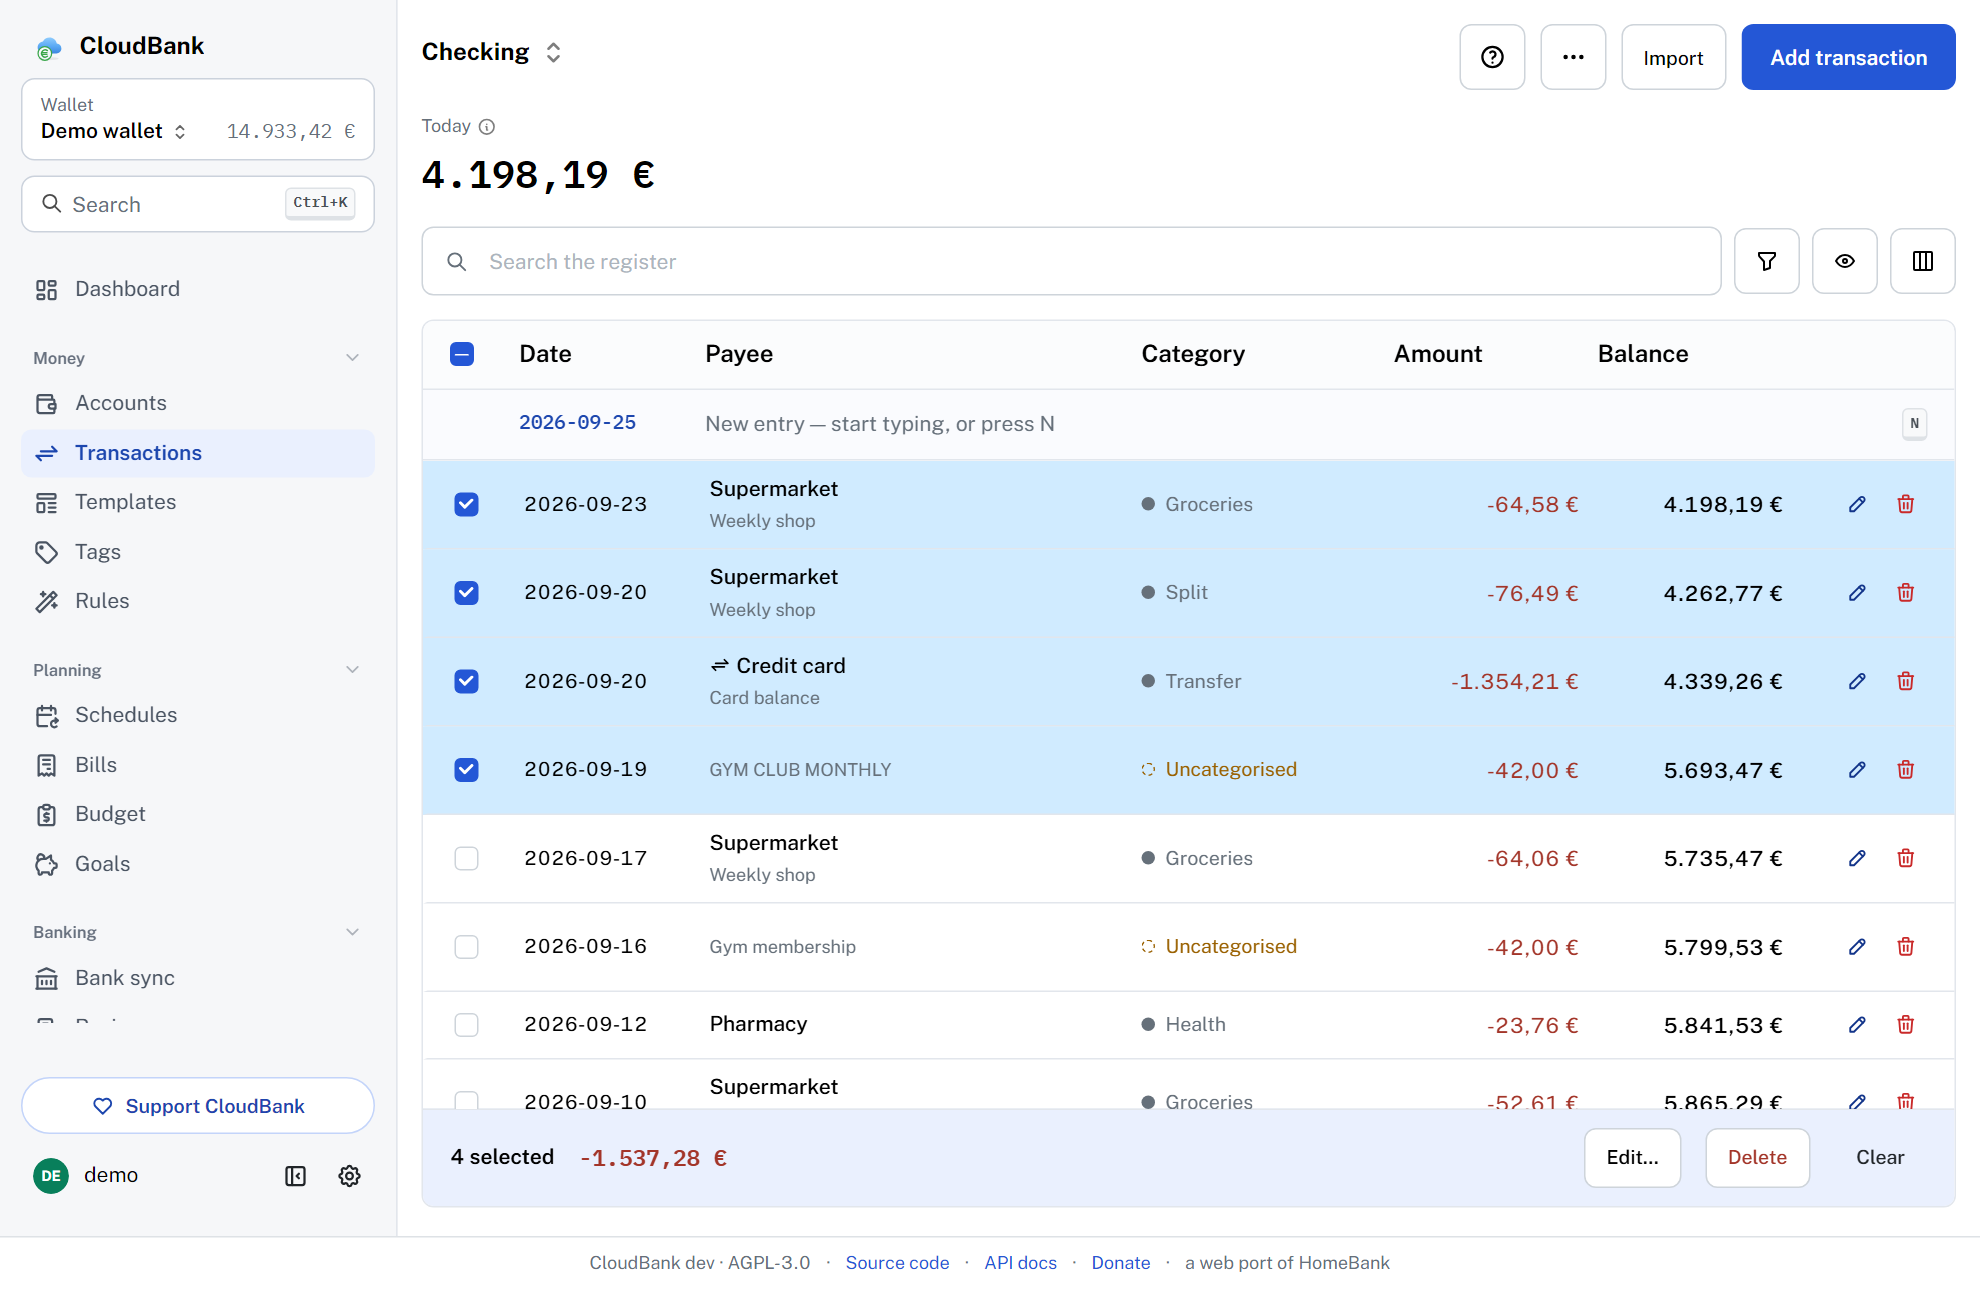
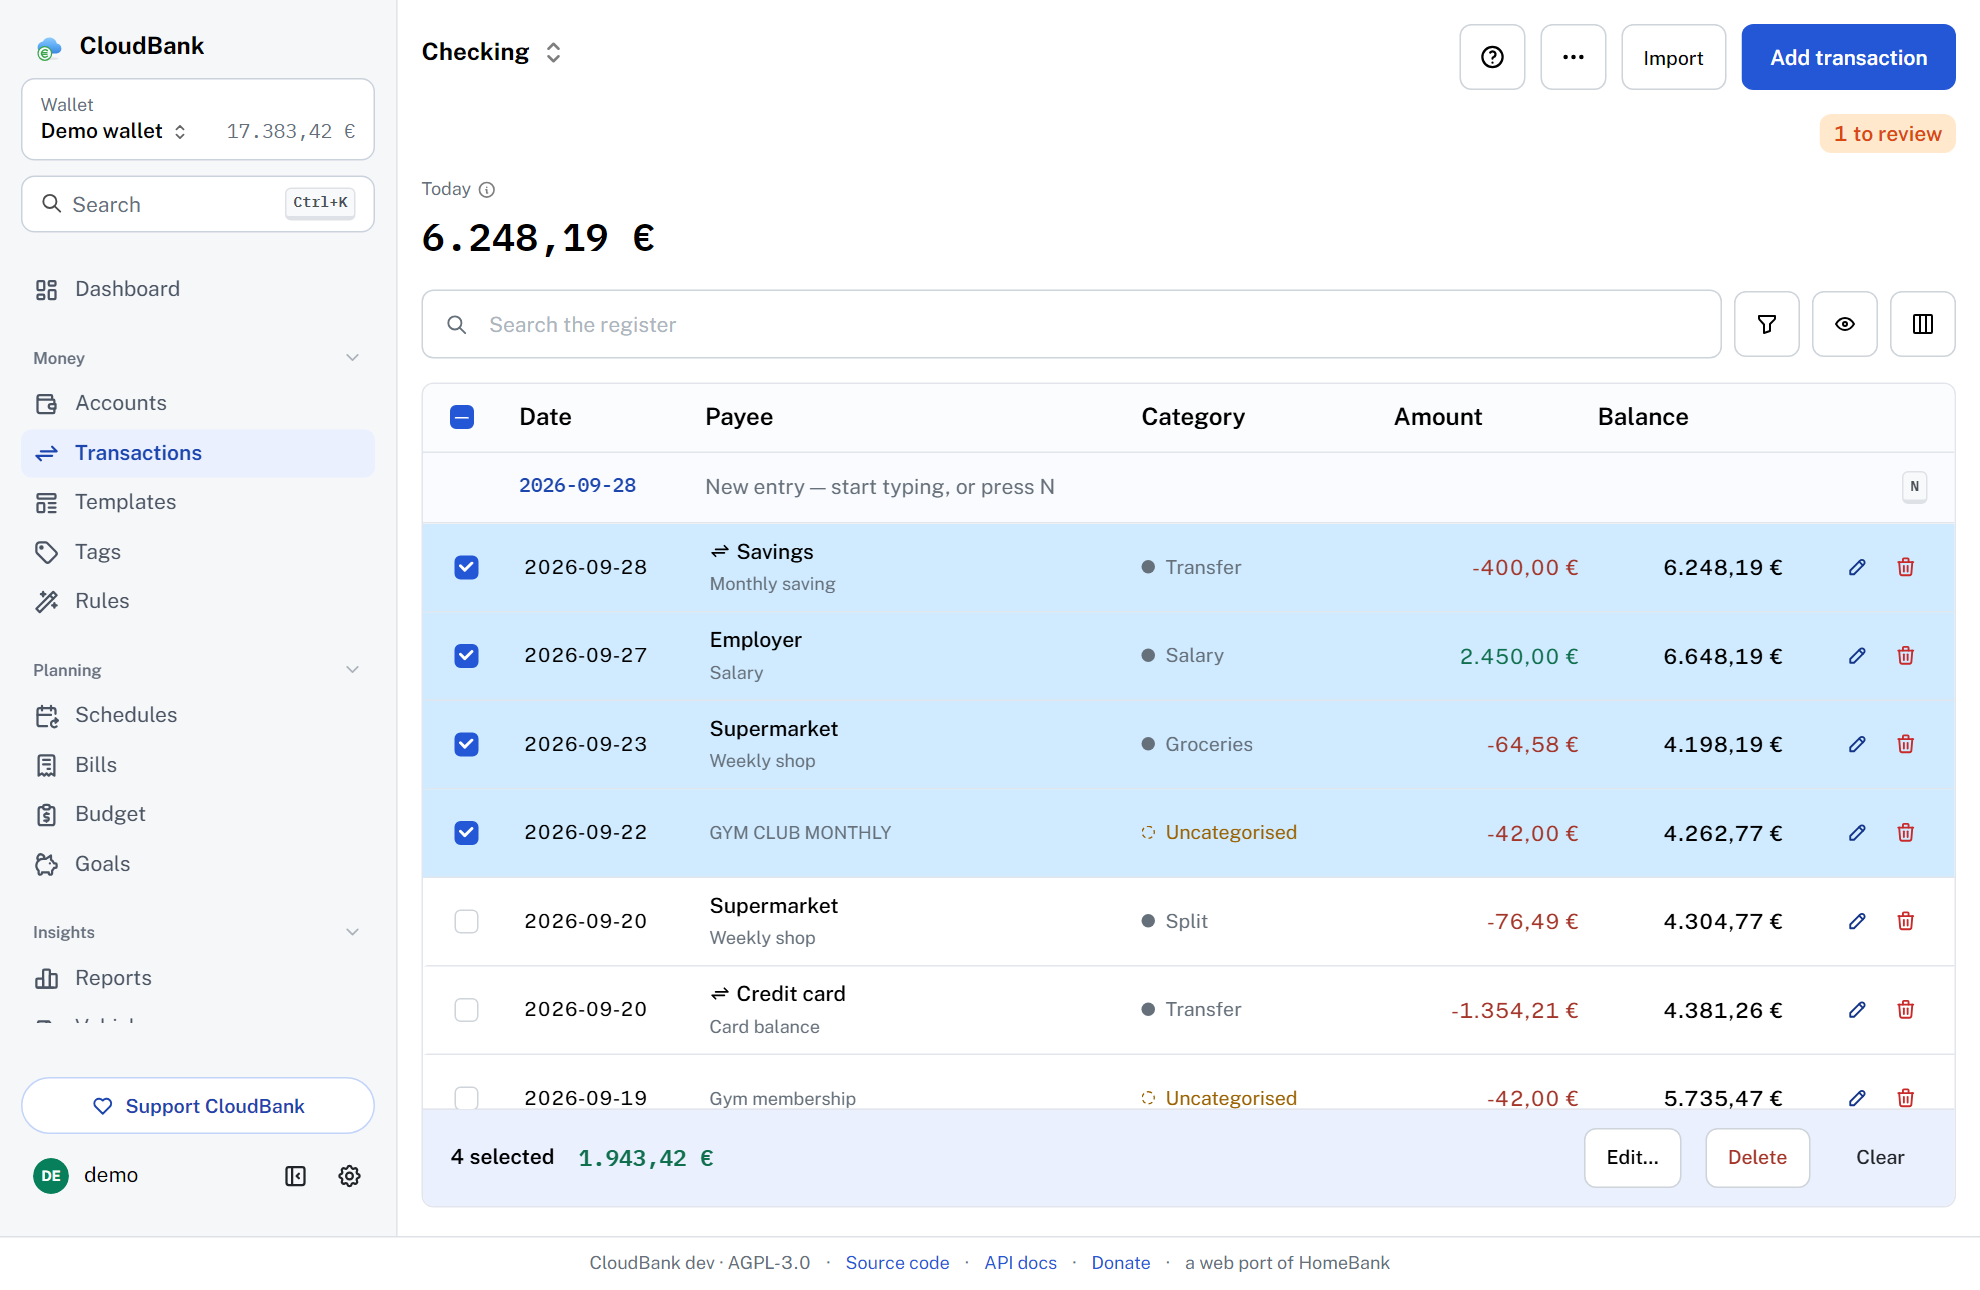
chore(release): changelog for 3.5.0, README screenshots retaken
Cut 3.5.0 from the work since v3.2.2, and give 3.2.1 and 3.2.2, which were
released without a section, one each. The compare links at the foot pointed
Unreleased at v3.0.3; they now follow the releases.

The README screenshots were taken again on the current build, with the demo's
year of data: the reports, the register and Settings had changed.

diff --git a/CHANGELOG.md b/CHANGELOG.md
@@ -6,6 +6,96 @@ All notable changes to CloudBank are documented here. The format is based on
 
 ## [Unreleased]
 
+## [3.5.0] — 2026-09-28
+
+The phone release. CloudBank was designed at 1280px, and it showed on a phone:
+buttons wrapped, figures took a screen of their own, and pages leaned on
+controls that no longer fitted. Most of this release is about giving a phone
+its space back. Alongside it, the bank sync moves into Settings, and syncing
+and reviewing happen from the register.
+
+### Added
+
+- **Sync an account, and see what it needs, from its register.** An account
+  linked to a bank shows when it last synced ("2 hours ago") and a Sync button
+  above its balances. Syncing no longer means leaving the ledger. When the
+  account has rows waiting for a look, an amber "3 to review" appears beside
+  them. These are imported rows with no category, or possible duplicates. The
+  button opens Review on that account alone, and "Show all accounts" widens it
+  again. It depends on what there is to review, not on the bank: a file import
+  or two hand-entered rows can need it just as much.
+- **Settings › About.** A new last section, for everyone: the version, the
+  licence in a sentence, and the links to the source, the API docs, the
+  donation page and HomeBank.
+- **The footer can be turned off.** Settings › Appearance has a "Show the
+  footer" switch, on every screen. It hides nothing: what the footer carries is
+  also in Settings › About.
+- **Skipping one tour can skip them all.** Turning down a page tour that was
+  offered asks once whether the other pages should stop offering theirs. The
+  "?" on each page still plays its tour, and resetting the tours in Settings
+  turns the offers back on.
+
+### Changed
+
+- **Bank sync lives in Settings.** Settings › Bank sync & AI holds everything
+  the Bank sync page had: providers, connections, schedules, linked accounts
+  and history. The sidebar loses Bank sync, Review and the Banking group they
+  sat in. Old links to `/bank-sync` land on the section, and the address
+  Enable Banking returns to is unchanged.
+- **Filters say how many are on, always.** The Filters button carries a count
+  everywhere. On a desktop the chips naming each filter stay beside the search.
+  On a phone, where they took a line or three above the ledger, they move into
+  the filter panel. Reports work the same way. A register emptied by its
+  filters says so, and offers to clear them.
+- **Figures that do not fit a phone step through a strip.** The register's
+  balances and the overview's figures took two lines, or a screen, on a phone.
+  When they do not fit, they now sit in a strip one figure high, stepping every
+  four seconds. A touch stops it, a swipe scrolls it, and with reduced motion
+  it never moves by itself. The overview's headline balance stays large and
+  still. Whether the figures fit is measured, not guessed: when they fit, and
+  on every wider screen, they stay a plain row.
+- **Accounts on a phone are one line each.** The desktop table squeezed the
+  name and the amount until "Credit card" wrapped word by word and the € sat on
+  its own line. At 320px the edit and delete buttons fell outside the card. Each
+  account is now its name over its bank and share, its amount, which never
+  wraps, and a ⋯ menu holding Edit, Valuations and Delete. A single tap on the
+  row opens the account.
+- **The footer folds on a touch screen.** At the end of the page it was three
+  lines of links. It is now one line, the version and licence with a "Links"
+  toggle that opens them one per row.
+- **Phone headers fit.** A page's "?" sits on its title row, as a small round
+  button, instead of taking the action row. At 320px "Add transaction" reads
+  "Add", so the actions keep to one line.
+- **The README points at Buy Me a Coffee first,** the easiest way to support
+  the project.
+
+## [3.2.2] — 2026-09-27
+
+### Changed
+
+- **The reports were redesigned.** One frame for every tab: a period bar, the
+  register's filters, and a ⋯ for saved views and downloads. Each tab opens
+  with its answer, the figure, before any control. Spending is a ranked list
+  instead of a pie. Every chart has its figures beside it, and a period still
+  running says "so far".
+- **Review compares a possible duplicate field by field,** with what the two
+  rows share dimmed so the differences stand out, and shows a bank's memo in
+  full wherever a row needs a category.
+
+### Fixed
+
+- The reports now honour the transfer, "no status" and "uncategorised" filters.
+
+## [3.2.1] — 2026-09-25
+
+### Changed
+
+- **Reconciled lines appear only under a status filter.** The register draws
+  its "reconciled up to here" lines only while a status filter hides the
+  reconciled rows, one per run of hidden rows, with its dates and count.
+  Unfiltered, each row's status already says what a line would.
+- The demo image is published with every release.
+
 ## [3.2.0] — 2026-09-25
 
 The redesign. Every screen was rebuilt to one measured design — the shell, the
@@ -546,6 +636,11 @@ HomeBank feature parity, shipped as a single Docker container.
 - CI (lint, race tests, build, Docker smoke, Playwright e2e) and automated GHCR
   publishing (`:latest` nightly, `:main` stable, `:vX.Y.Z` per release).
 
-[Unreleased]: https://github.com/easly1989/cloudbank/compare/v3.0.3...HEAD
+[Unreleased]: https://github.com/easly1989/cloudbank/compare/v3.5.0...HEAD
+[3.5.0]: https://github.com/easly1989/cloudbank/compare/v3.2.2...v3.5.0
+[3.2.2]: https://github.com/easly1989/cloudbank/compare/v3.2.1...v3.2.2
+[3.2.1]: https://github.com/easly1989/cloudbank/compare/v3.2.0...v3.2.1
+[3.2.0]: https://github.com/easly1989/cloudbank/compare/v3.1.5...v3.2.0
+[3.1.0 – 3.1.5]: https://github.com/easly1989/cloudbank/compare/v3.0.3...v3.1.5
 [2.0.0 – 3.0.3]: https://github.com/easly1989/cloudbank/compare/v1.0.0...v3.0.3
 [1.0.0]: https://github.com/easly1989/cloudbank/releases/tag/v1.0.0
